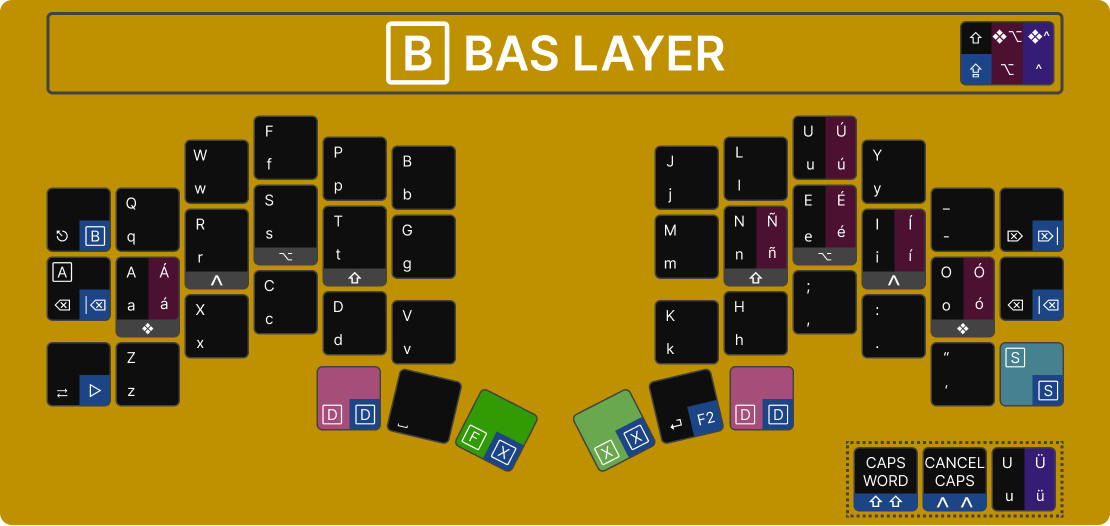
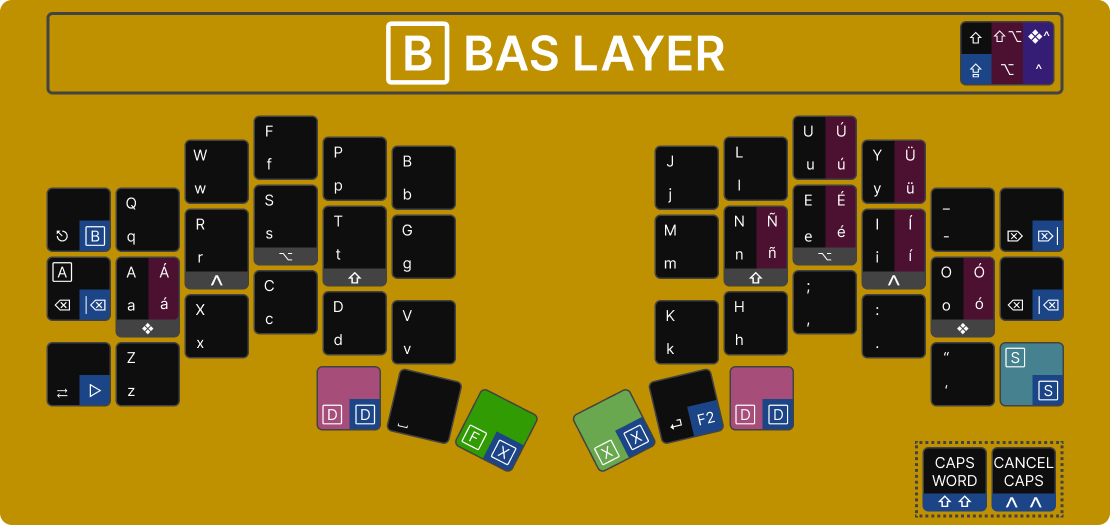
accents and dead keys with US Int Layout

Changed region(s): [[0.7658, 0.8213, 0.9495, 1.0], [0.7964, 0.2433, 0.8577, 0.3954], [0.8883, 0.0608, 0.9189, 0.0913]]

diff --git a/README.md b/README.md
@@ -4,9 +4,9 @@ ZMK configuration for [swept-crkbd](https://github.com/AYM1607/swept-crkbd/) als
 
 ![Front](.github/images/keyboard/front.jpg)
 
-This is a WIP layout based on Colemak DHm for using on Windows (with **en-US** layout), complemented with AHK scripts with Spanish accents, easy access to development symbols and JS/TS shortcuts.
+This is a WIP layout based on Colemak DHm for using on Windows (with **en-US** international layout), complemented with AHK scripts with easy access to development symbols and JS/TS shortcuts.
 
-> **US International** layout is another alternative, but it has a critical downside (at least on Windows) for programming due to dead keys. We are going to lose speed because need to press two keys instead of one: the diacritic or accent followed by an ending character (space, tab or enter) to produce it.
+![US International](.github/images/layout/US-International.png)
 
 ---
 
@@ -87,20 +87,20 @@ Letters, accents for Spanish language and quick shortcuts for most used symbols 
 
 | Label        | Windows                                 | Android                                               |
 | :----------: | --------------------------------------: | ----------------------------------------------------: |
-| <kbd>á</kbd> | <kbd>⌥</kbd>+<kbd>a</kbd>               | <kbd>⌥</kbd>+<kbd>e</kbd> + <kbd>a</kbd>              |
-| <kbd>Á</kbd> | <kbd>❖</kbd>+<kbd>⌥</kbd>+<kbd>a</kbd> | <kbd>⌥</kbd>+<kbd>e</kbd> + <kbd>⇧</kbd>+<kbd>a</kbd> |
-| <kbd>é</kbd> | <kbd>⌥</kbd>+<kbd>e</kbd>               | <kbd>⌥</kbd>+<kbd>e</kbd> + <kbd>e</kbd>              |
-| <kbd>É</kbd> | <kbd>❖</kbd>+<kbd>⌥</kbd>+<kbd>e</kbd> | <kbd>⌥</kbd>+<kbd>e</kbd> + <kbd>⇧</kbd>+<kbd>e</kbd> |
-| <kbd>í</kbd> | <kbd>⌥</kbd>+<kbd>i</kbd>               | <kbd>⌥</kbd>+<kbd>e</kbd> + <kbd>i</kbd>              |
-| <kbd>Í</kbd> | <kbd>❖</kbd>+<kbd>⌥</kbd>+<kbd>i</kbd> | <kbd>⌥</kbd>+<kbd>e</kbd> + <kbd>⇧</kbd>+<kbd>i</kbd> |
-| <kbd>ó</kbd> | <kbd>⌥</kbd>+<kbd>o</kbd>               | <kbd>⌥</kbd>+<kbd>e</kbd> + <kbd>o</kbd>              |
-| <kbd>Ó</kbd> | <kbd>❖</kbd>+<kbd>⌥</kbd>+<kbd>o</kbd> | <kbd>⌥</kbd>+<kbd>e</kbd> + <kbd>⇧</kbd>+<kbd>o</kbd> |
-| <kbd>ú</kbd> | <kbd>⌥</kbd>+<kbd>u</kbd>               | <kbd>⌥</kbd>+<kbd>e</kbd> + <kbd>u</kbd>              |
-| <kbd>Ú</kbd> | <kbd>❖</kbd>+<kbd>⌥</kbd>+<kbd>u</kbd> | <kbd>⌥</kbd>+<kbd>e</kbd> + <kbd>⇧</kbd>+<kbd>u</kbd> |
-| <kbd>ü</kbd> | <kbd>^</kbd>+<kbd>u</kbd>               | <kbd>⌥</kbd>+<kbd>u</kbd> + <kbd>u</kbd>              |
-| <kbd>Ü</kbd> | <kbd>❖</kbd>+<kbd>^</kbd>+<kbd>u</kbd>  | <kbd>⌥</kbd>+<kbd>u</kbd> + <kbd>⇧</kbd>+<kbd>u</kbd> |
-| <kbd>ñ</kbd> | <kbd>⌥</kbd>+<kbd>n</kbd>               | <kbd>⌥</kbd>+<kbd>n</kbd> + <kbd>n</kbd>              |
-| <kbd>Ñ</kbd> | <kbd>❖</kbd>+<kbd>⌥</kbd>+<kbd>n</kbd> | <kbd>⌥</kbd>+<kbd>n</kbd> + <kbd>⇧</kbd>+<kbd>n</kbd> |
+| <kbd>á</kbd> | <kbd>⌥</kbd>+<kbd>a</kbd>              | <kbd>⌥</kbd>+<kbd>e</kbd> + <kbd>a</kbd>              |
+| <kbd>Á</kbd> | <kbd>⇧</kbd>+<kbd>⌥</kbd>+<kbd>a</kbd> | <kbd>⌥</kbd>+<kbd>e</kbd> + <kbd>⇧</kbd>+<kbd>a</kbd> |
+| <kbd>é</kbd> | <kbd>⌥</kbd>+<kbd>e</kbd>              | <kbd>⌥</kbd>+<kbd>e</kbd> + <kbd>e</kbd>              |
+| <kbd>É</kbd> | <kbd>⇧</kbd>+<kbd>⌥</kbd>+<kbd>e</kbd> | <kbd>⌥</kbd>+<kbd>e</kbd> + <kbd>⇧</kbd>+<kbd>e</kbd> |
+| <kbd>í</kbd> | <kbd>⌥</kbd>+<kbd>i</kbd>              | <kbd>⌥</kbd>+<kbd>e</kbd> + <kbd>i</kbd>              |
+| <kbd>Í</kbd> | <kbd>⇧</kbd>+<kbd>⌥</kbd>+<kbd>i</kbd> | <kbd>⌥</kbd>+<kbd>e</kbd> + <kbd>⇧</kbd>+<kbd>i</kbd> |
+| <kbd>ó</kbd> | <kbd>⌥</kbd>+<kbd>o</kbd>              | <kbd>⌥</kbd>+<kbd>e</kbd> + <kbd>o</kbd>              |
+| <kbd>Ó</kbd> | <kbd>⇧</kbd>+<kbd>⌥</kbd>+<kbd>o</kbd> | <kbd>⌥</kbd>+<kbd>e</kbd> + <kbd>⇧</kbd>+<kbd>o</kbd> |
+| <kbd>ú</kbd> | <kbd>⌥</kbd>+<kbd>u</kbd>              | <kbd>⌥</kbd>+<kbd>e</kbd> + <kbd>u</kbd>              |
+| <kbd>Ú</kbd> | <kbd>⇧</kbd>+<kbd>⌥</kbd>+<kbd>u</kbd> | <kbd>⌥</kbd>+<kbd>e</kbd> + <kbd>⇧</kbd>+<kbd>u</kbd> |
+| <kbd>ü</kbd> | <kbd>^</kbd>+<kbd>y</kbd>               | <kbd>⌥</kbd>+<kbd>u</kbd> + <kbd>u</kbd>              |
+| <kbd>Ü</kbd> | <kbd>⇧</kbd>+<kbd>^</kbd>+<kbd>y</kbd>  | <kbd>⌥</kbd>+<kbd>u</kbd> + <kbd>⇧</kbd>+<kbd>u</kbd> |
+| <kbd>ñ</kbd> | <kbd>⌥</kbd>+<kbd>n</kbd>              | <kbd>⌥</kbd>+<kbd>n</kbd> + <kbd>n</kbd>              |
+| <kbd>Ñ</kbd> | <kbd>⇧</kbd>+<kbd>⌥</kbd>+<kbd>n</kbd> | <kbd>⌥</kbd>+<kbd>n</kbd> + <kbd>⇧</kbd>+<kbd>n</kbd> |
 
 ##### Symbols
 
